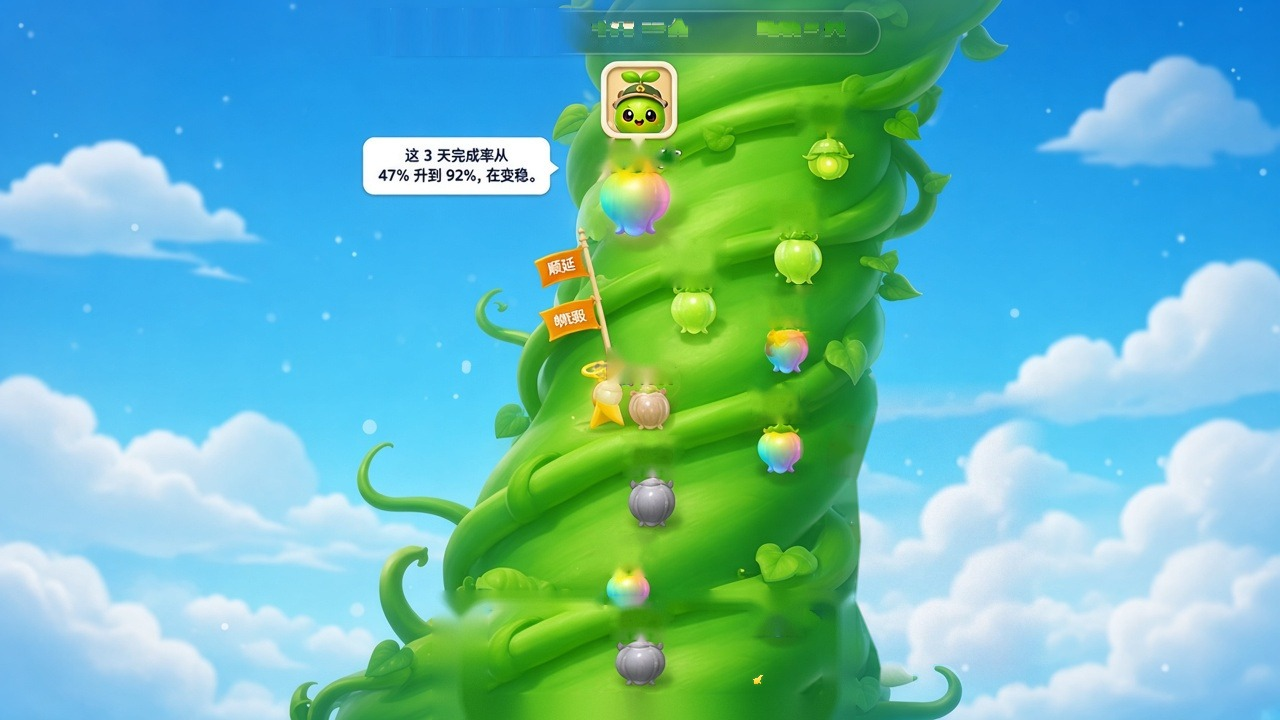
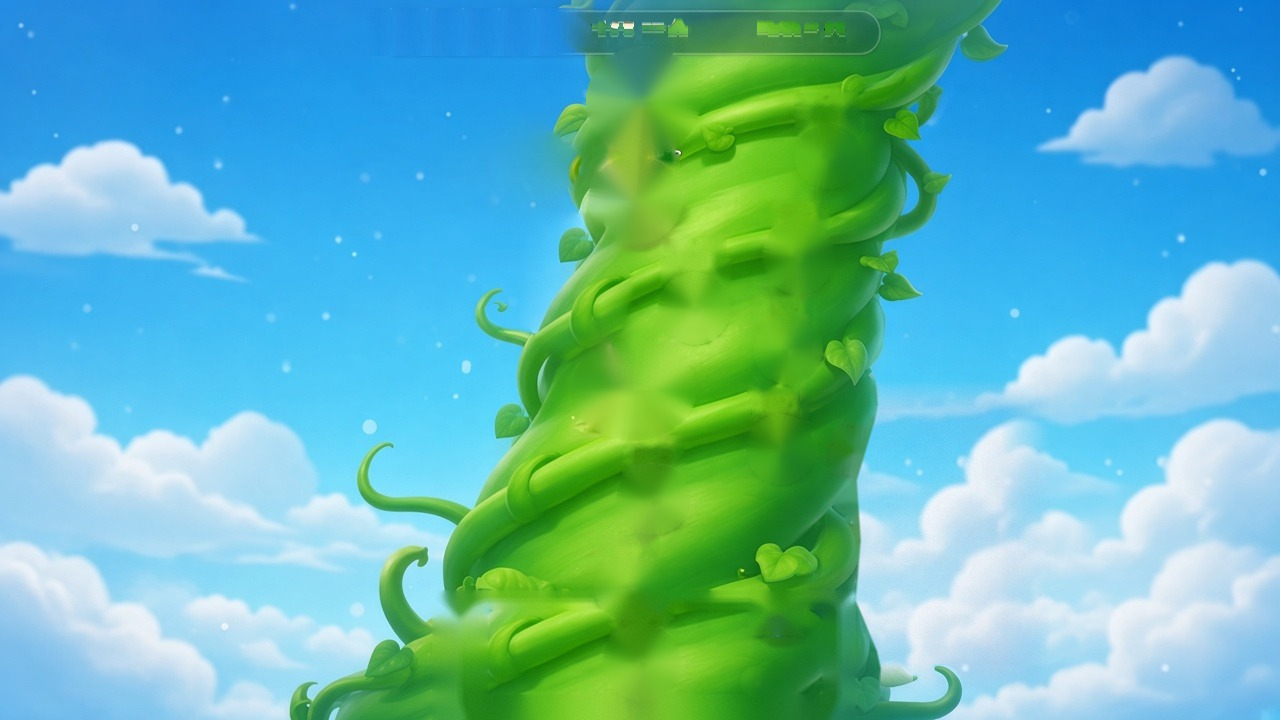
fix(journey): 底图抹掉画死的果实、头像、旧旗和提示气泡
关卡果实改由 DOM 在槽位上画，底图里画死且不在槽位上的果实、头像、
顺延/懒散旗、金环和提示气泡全部抹掉：藤身中间用 Telea 只按藤色补，
贴藤边/天空的整块借附近纹路泊松融合。仍另存 map-plate-clean.jpg。

diff --git a/scripts/clean_journey_plate.py b/scripts/clean_journey_plate.py
@@ -105,6 +105,96 @@ def rebuild_bottom(img: np.ndarray) -> np.ndarray:
     return cv2.seamlessClone(patch, out, m, center, cv2.NORMAL_CLONE)
 
 
+# 画死的果实、头像、旧标签旗、金环、提示气泡（x0, y0, x1, y1）。
+# 关卡果实只由 DOM 在槽位上画，这些全部抹掉。
+OBJECTS = [
+    (590, 50, 696, 152),   # 头像
+    (592, 160, 678, 240),  # 头像下彩果
+    (798, 128, 858, 184),  # 右上小绿果
+    (766, 222, 830, 290),  # 绿果
+    (662, 276, 726, 340),  # 中间绿果
+    (758, 318, 818, 380),  # 彩果
+    (528, 222, 622, 352, 'patch'),  # 顺延/懒散旗和旗杆
+    (574, 344, 692, 436),  # 金环、香蕉、棕果
+    (750, 418, 810, 480),  # 彩果
+    (620, 468, 686, 530),  # 灰罐
+    (598, 560, 660, 616),  # 彩果
+    (606, 628, 676, 696),  # 底部灰罐
+    (744, 670, 766, 692),  # 小黄点
+    (342, 120, 572, 210, 'patch'),  # 画死的提示气泡
+]
+
+
+def _ring(img: np.ndarray, box: tuple[int, int, int, int], pad: int) -> np.ndarray:
+    x0, y0, x1, y1 = box
+    outer = img[y0 - pad:y1 + pad, x0 - pad:x1 + pad].astype(np.float32)
+    m = np.ones(outer.shape[:2], bool)
+    m[pad:-pad, pad:-pad] = False
+    return outer[m]
+
+
+def erase_objects(img: np.ndarray) -> np.ndarray:
+    """藤身中间的果实用 Telea 顺着藤的明暗补平；
+    贴着藤边/天空的（旗、气泡）从附近纹路最接近的位置整块借过来再泊松融合，保住藤边。"""
+    soft = np.zeros(img.shape[:2], np.uint8)
+    for item in OBJECTS:
+        if len(item) == 4:
+            x0, y0, x1, y1 = item
+            cv2.ellipse(soft, ((x0 + x1) // 2, (y0 + y1) // 2), ((x1 - x0) // 2 + 4, (y1 - y0) // 2 + 4), 0, 0, 360, 255, -1)
+    # 只用藤色补：附近的天空像素也临时当成未知，补完再把天空原样放回，免得蓝色渗进藤里。
+    b, g, r = [img[:, :, i].astype(int) for i in range(3)]
+    sky = (b > r + 25) & (b >= g - 5) & ~((g > r + 12) & (g > b + 12))
+    near = cv2.dilate(soft, np.ones((61, 61), np.uint8)).astype(bool)
+    hide = soft.copy()
+    hide[near & sky] = 255
+    out = cv2.inpaint(img, hide, 15, cv2.INPAINT_TELEA)
+    keep = near & sky & ~soft.astype(bool)
+    out[keep] = img[keep]
+    return erase_patches(out, [tuple(item[:4]) for item in OBJECTS if len(item) == 5])
+
+
+def erase_patches(img: np.ndarray, boxes: list) -> np.ndarray:
+    out = img.copy()
+    h, w = img.shape[:2]
+    pad = 14
+    done: list[tuple[int, int, int, int]] = []
+    for box in boxes:
+        x0, y0, x1, y1 = box
+        bw, bh = x1 - x0, y1 - y0
+        target = _ring(out, box, pad)
+        best = None
+        for dy in range(-220, 221, 6):
+            for dx in range(-220, 221, 6):
+                if abs(dx) < bw * 0.9 and abs(dy) < bh * 0.9:
+                    continue
+                sx0, sy0 = x0 + dx, y0 + dy
+                # 顶部 70px 是画死的旧状态条，不从那里借
+                if sx0 - pad < 0 or sy0 - pad < 70 or sx0 + bw + pad > w or sy0 + bh + pad > h:
+                    continue
+                src = (sx0, sy0, sx0 + bw, sy0 + bh)
+                hit = False
+                for ox0, oy0, ox1, oy1 in boxes:
+                    if (ox0, oy0, ox1, oy1) in done:
+                        continue
+                    if sx0 < ox1 + 6 and sx0 + bw > ox0 - 6 and sy0 < oy1 + 6 and sy0 + bh > oy0 - 6:
+                        hit = True
+                        break
+                if hit:
+                    continue
+                score = float(np.mean((_ring(out, src, pad) - target) ** 2))
+                if best is None or score < best[0]:
+                    best = (score, sx0, sy0)
+        assert best is not None
+        _, sx0, sy0 = best
+        patch = out[sy0 - pad:sy0 + bh + pad, sx0 - pad:sx0 + bw + pad].copy()
+        m = np.zeros(patch.shape[:2], np.uint8)
+        cv2.ellipse(m, (patch.shape[1] // 2, patch.shape[0] // 2), (patch.shape[1] // 2 - 2, patch.shape[0] // 2 - 2), 0, 0, 360, 255, -1)
+        center = (x0 + bw // 2, y0 + bh // 2)
+        out = cv2.seamlessClone(patch, out, m, center, cv2.NORMAL_CLONE)
+        done.append(box)
+    return out
+
+
 def main() -> None:
     img = rebuild_bottom(cv2.imread(str(SRC)))
     b, g, r = [img[:, :, i].astype(int) for i in range(3)]
@@ -122,6 +212,7 @@ def main() -> None:
     mask = cv2.dilate(mask, np.ones((5, 5), np.uint8), iterations=2)
     out = cv2.inpaint(img, mask, 9, cv2.INPAINT_TELEA)
     out = erase_signs(out, green, mask, sky_clean)
+    out = erase_objects(out)
     # 补过的地方加一点和周围一样的细噪点，免得显得太平。
     noise = np.random.default_rng(7).normal(0, 2.2, img.shape)
     soft = cv2.GaussianBlur(mask, (0, 0), 3)[..., None] / 255.0
